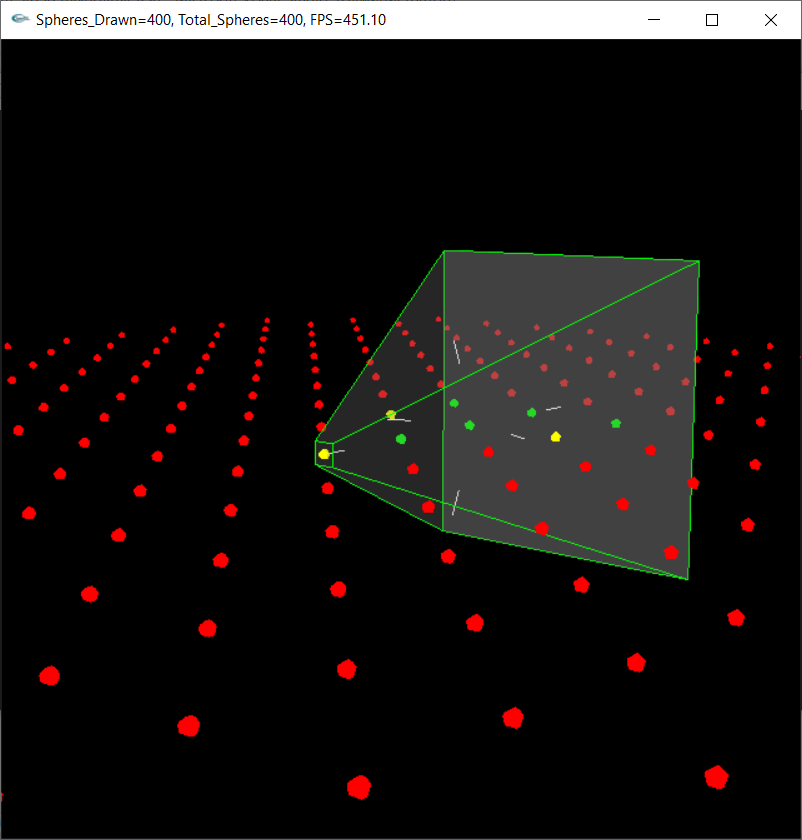
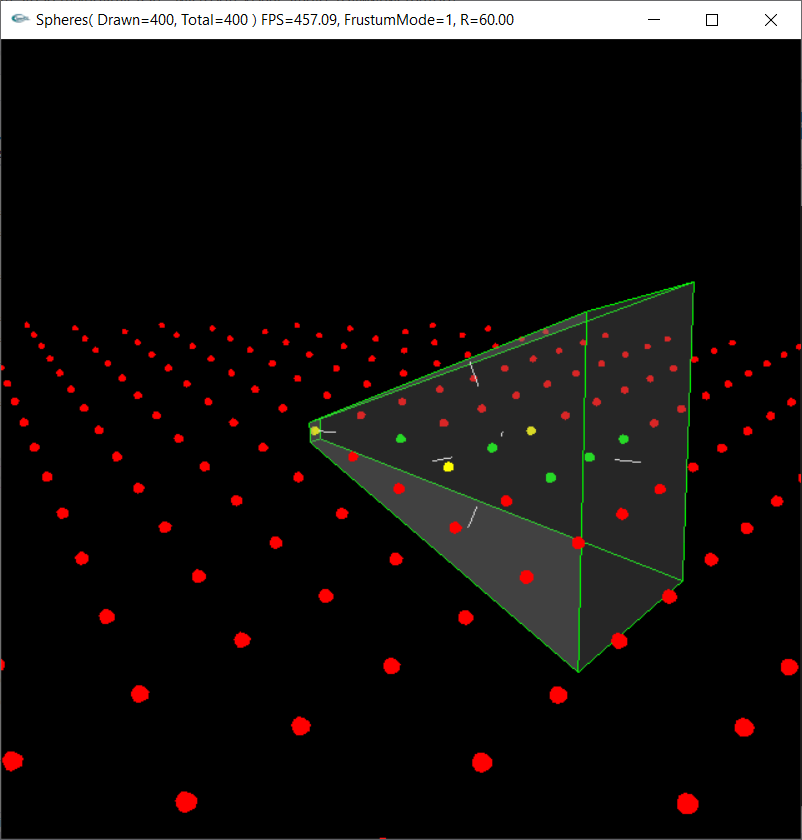
Updated Main.cpp: img + R

diff --git a/Main.cpp b/Main.cpp
@@ -17,7 +17,7 @@
 #include <time.h>
 
 
-float nearP = 1.0f, farP = 100.0f;
+float nearP = 1.0f, farP = 100.0f, Radius = 60.f;
 float angle = 45.f, ratio= 1.f, farF = 15.f;
 
 int frame = 0, timebase = 0;
@@ -27,8 +27,8 @@ int spheresDrawn = 0;
 int spheresTotal = 0;
 
 
-CPosition position(10.f, 0.f, 75.f);
-CMovement movement(Vec3(0.f, 10.f, 75.f), Vec3(), Vec3(0.f, 1.f, 0.f));
+CPosition position(10.f, 0.f, Radius); // (11.f, 63.f, 60.f)
+CMovement movement(Vec3(0.f, 10.f, Radius), Vec3(), Vec3(0.f, 1.f, 0.f));
 
 bool mode = true;
 Vec3 p(0,0,-5), l(0,0,0), u(0,1,0);
@@ -146,7 +146,8 @@ void renderScene(void)
       fps = frame*1000.0/(time-timebase);
       timebase = time;
       frame = 0;
-      sprintf_s(title, "Spheres( Drawn=%d, Total=%d ) FPS=%.2f, FrustumMode=%d", spheresDrawn, spheresTotal, fps, int(mode));
+      sprintf_s(title, "Spheres( Drawn=%d, Total=%d ) FPS=%.2f, FrustumMode=%d, R=%.2f",
+         spheresDrawn, spheresTotal, fps, int(mode), position.mRadius);
       glutSetWindowTitle(title);
    }
 
@@ -233,8 +234,8 @@ void keyboard(unsigned char a, int x, int y)
       case 'M':
          {
             mode = !mode;
-            position = CPosition(10.f, 0.f, 75.f);
-            movement = CMovement(Vec3(0.f, 10.f, 75.f), Vec3(), Vec3(0.f, 1.f, 0.f));
+            position = CPosition(10.f, 0.f, Radius);
+            movement = CMovement(Vec3(0.f, 10.f, Radius), Vec3(), Vec3(0.f, 1.f, 0.f));
          }
          break;
 
